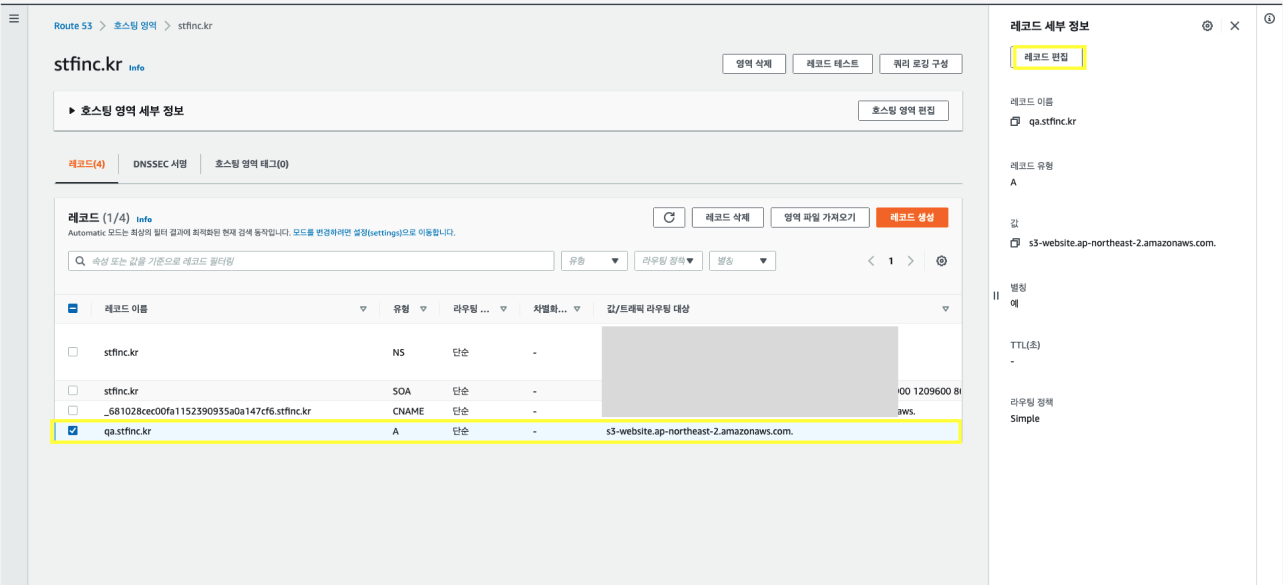
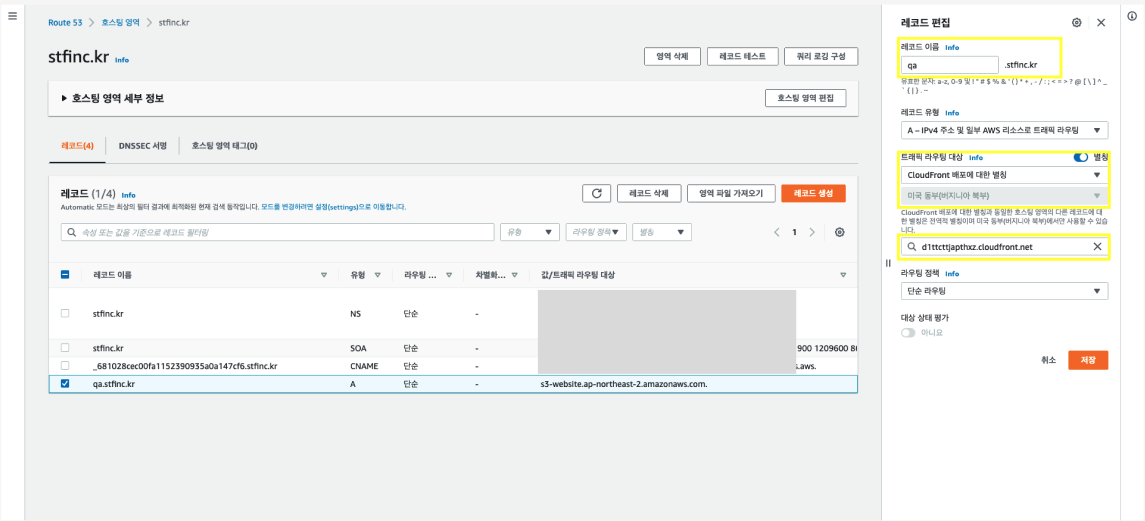
feat: cloudfront 포스트 작성 완료

diff --git a/_sass/_custom/custom.scss b/_sass/_custom/custom.scss
@@ -1,37 +1,71 @@
 // Custom styles.
 
-.col-3 {width: 25%;}
-.col-6 {width: 50%;}
-.col-9 {width: 75%;}
-.col-12 {width: 100%;}
+.col-3 {
+  width: 25%;
+}
+.col-6 {
+  width: 50%;
+}
+.col-9 {
+  width: 75%;
+}
+.col-12 {
+  width: 100%;
+}
 
+.fw-100 {
+  font-weight: 100;
+}
+.fw-200 {
+  font-weight: 200;
+}
+.fw-300 {
+  font-weight: 300;
+}
+.fw-400 {
+  font-weight: 400;
+}
+.fw-500 {
+  font-weight: 500;
+}
+.fw-600 {
+  font-weight: 600;
+}
+.fw-700 {
+  font-weight: 700;
+}
+.fw-800 {
+  font-weight: 800;
+}
+.fw-900 {
+  font-weight: 900;
+}
+.fw-1000 {
+  font-weight: 1000;
+}
 
 .language-text {
+  .highlight {
+    .gutter {
+      display: none;
+    }
 
-	.highlight {
-		.gutter {
-			display: none;
-		}
-
-		.code {
-			pre {
-				code {
-					font-size: 12px;
-		    		line-height: 1;
-		    		color: #000;
-				}
-			}
-		}
-	}
-
+    .code {
+      pre {
+        code {
+          font-size: 12px;
+          line-height: 1;
+          color: #000;
+        }
+      }
+    }
+  }
 }
 
 .not-found-section {
-
-	a {
-		span {
-			font-size: 40px;
-		}
-	}
-
+  a {
+    span {
+      font-size: 40px;
+    }
+  }
 }

diff --git a/_posts/2021-08-20-react-s3-cloudfront-deploy-5-gabia copy.md b/_posts/2021-08-20-react-s3-cloudfront-deploy-5-gabia copy.md
@@ -1,0 +1,79 @@
+---
+layout: post
+title: React 프로젝트 AWS S3, CloudFront에 배포 및 가비아 구매 도메인 연결하기 - 5 (gabia)
+description: "CloudFront 생성하기"
+date: 2021-08-20
+categories:
+  - SPA 배포
+tags: [React, AWS S3, AWS CloudFront, SPA 배포, Gabia, AWS Route53, AWS ACM]
+---
+
+# React 프로젝트 AWS S3, CloudFront에 배포 및 가비아 구매 도메인 연결하기 - 5
+
+```text
+회사 퇴직을 하기 전 배포중인 프로젝트의 인수인계를 위하여 문서작업을 진행하게되었습니다.
+그래서 겸사겸사 블로그 포스팅도 남겨봅니다.
+```
+
+## 참고사항 (모든 스텝 동일 합니다. 스탭별 추가 유의사항은 goal 에 작성하겠습니다)
+- 회사 에서 임시로 qa 라는 배포 환경을 만들면서 진행을 하였고, 현재는 제거 된 구성으로 알고있습니다.
+   - 회사 정보가 나올수 있는 부분은 블라인드 처리를 진행할 것이며 설정과 무난한 정보들입니다. (기존 설정 데이터)
+- 이미지에 보시면 노란색 박스 로 표시된 부분들을 집중해서 보시면 됩니다.
+- 도메인은 가비아에서 구매를 하였기 때문에 도메인 연결은 가비아를 통한 연동과 route53 을 통한 연동 2가지로 구성되어있습니다.
+   - 상황에 맞게 설정하셔서 스탭 진행해주시면 됩니다 :)
+   - 가비아를 통한 도메인 연결은 qa.eneryx.co.kr
+   - route53을 통한 도메인 연결은 qa.stfinc.kr
+   - 이렇게 2가지 url 로 진행됩니다
+- 포스트를 1 부터 차근차근 나눴기에 연결되게 보시는것을 추천합니다.
+- 모든 정보는 2021년 8월을 기준으로 하며 aws 및 가비아 측 업데이트로 인하여 바뀐부분은 정확하지 않을수 있습니다.
+<br>
+
+
+## goal - S3 버킷에 올린 React 프로젝트를 가비아 DNS 연결을 통하여 Cloudfront 를 통해 https 접속하기
+
+- 긴 여정의 마지막 단계 입니다.
+- 전 스텝에서 진행된 가비아 서브 도메인은 S3 로 연결 되고있습니다.
+- 해당 서브도메인을 S3 가 아닌 Cloudfront 로 연결하여 원하는 도메인 으로 https 접속을 진행해보겠습니다.
+<br>
+
+### 1. 가비아 DNS 관리툴 접속
+
+- 기존 S3 도메인 연결 과정과 똑같습니다.
+- 도메인을 구매한 계정으로 로그인하여 연결 하려는 도메인의 DNS 관리툴로 접속합시다.
+
+<img src="{{ site.url }}/assets/image/2021-08-20-react-s3-cloudfront-deploy-5-gabia/image1.png" class="col-12" />
+<img src="{{ site.url }}/assets/image/2021-08-20-react-s3-cloudfront-deploy-5-gabia/image2.png" class="col-12" />
+<img src="{{ site.url }}/assets/image/2021-08-20-react-s3-cloudfront-deploy-5-gabia/image3.png" class="col-12" />
+<br>
+
+### 2. 기존 도메인 S3 연결을 Cloudfront 연결로 수정하기
+
+- 기존 S3 버킷으로 연결 되었던 CNAME 설정을 찾습니다.
+- 수정 버튼을 눌러 기존에 작성 되었던 S3 버킷 웹 호스팅 URL을 Cloudfront ID 로 변경합니다.
+- 꼭 ID 값 뒤에 "."을 찍어주셔야됩니다! (가비아 레코드 저장 필수사항)
+
+<img src="{{ site.url }}/assets/image/2021-08-20-react-s3-cloudfront-deploy-5-gabia/image4.png" class="col-12" />
+<img src="{{ site.url }}/assets/image/2021-08-20-react-s3-cloudfront-deploy-5-gabia/image6.png" class="col-12" />
+<br>
+
+### 3. 설정한 URL로 접속하기
+
+- 설정한 레코드의 URL로 브라우저로 접속해봅시다.
+- Cloudfront 에 설정한 대로 http 로 접속하여 https 로 리다이렉트 되는지도 확인합니다.
+
+<img src="{{ site.url }}/assets/image/2021-08-20-react-s3-cloudfront-deploy-5-gabia/image7.png" class="col-12" />
+<br>
+
+### 4. Finish
+
+- 모든 과정이 끝이 났습니다.
+- 가비아를 통하여 Cloudfront 를 연결하여 브라우저 url 입력시 S3 에서 웹호스팅 한 프로젝트에 https 접속을 진행할수있게 되었습니다.
+- 실제 프로젝트 운영중에는 이 과정 말고도 캐시 정책, 에러 정책 등 여러가지 정책이 추가되어야합니다.
+- 프로젝트에 맞게 추가 설정 및 배포 단계에 있어서는 다른 포스트에서 진행해보도록 하겠습니다~
+
+## 모든 스텝
+
+## [ACM 생성]({{ site.url }}/articles/2021-08/react-s3-cloudfront-deploy-3)
+<h2>테스트트트트</h2>
+## [ACM 생성]({{ site.url }}/articles/2021-08/react-s3-cloudfront-deploy-3)
+## [ACM 생성]({{ site.url }}/articles/2021-08/react-s3-cloudfront-deploy-3)

diff --git a/_posts/2021-08-20-react-s3-cloudfront-deploy-5-route53.md b/_posts/2021-08-20-react-s3-cloudfront-deploy-5-route53.md
@@ -1,0 +1,84 @@
+---
+layout: post
+title: React 프로젝트 AWS S3, CloudFront에 배포 및 가비아 구매 도메인 연결하기 - 5 (Route53)
+description: ""
+date: 2021-08-20
+categories:
+  - SPA 배포
+tags: [React, AWS S3, AWS CloudFront, SPA 배포, Gabia, AWS Route53, AWS ACM]
+---
+
+# React 프로젝트 AWS S3, CloudFront에 배포 및 가비아 구매 도메인 연결하기 - 5
+
+```text
+회사 퇴직을 하기 전 배포중인 프로젝트의 인수인계를 위하여 문서작업을 진행하게되었습니다.
+그래서 겸사겸사 블로그 포스팅도 남겨봅니다.
+```
+<br>
+
+## 참고사항 (모든 스텝 동일 합니다. 스탭별 추가 유의사항은 goal 에 작성하겠습니다)
+- 회사 에서 임시로 qa 라는 배포 환경을 만들면서 진행을 하였고, 현재는 제거 된 구성으로 알고있습니다.
+   - 회사 정보가 나올수 있는 부분은 블라인드 처리를 진행할 것이며 설정과 무난한 정보들입니다. (기존 설정 데이터)
+- 이미지에 보시면 노란색 박스 로 표시된 부분들을 집중해서 보시면 됩니다.
+- 도메인은 가비아에서 구매를 하였기 때문에 도메인 연결은 가비아를 통한 연동과 route53 을 통한 연동 2가지로 구성되어있습니다.
+   - 상황에 맞게 설정하셔서 스탭 진행해주시면 됩니다 :)
+   - 가비아를 통한 도메인 연결은 qa.eneryx.co.kr
+   - route53을 통한 도메인 연결은 qa.stfinc.kr
+   - 이렇게 2가지 url 로 진행됩니다
+- 포스트를 1 부터 차근차근 나눴기에 연결되게 보시는것을 추천합니다.
+- 모든 정보는 2021년 8월을 기준으로 하며 aws 및 가비아 측 업데이트로 인하여 바뀐부분은 정확하지 않을수 있습니다.
+<br>
+
+
+## goal - S3 버킷에 올린 React 프로젝트를 Route53 연결을 통하여 Cloudfront 를 통해 https 접속하기
+
+- 긴 여정의 마지막 단계 입니다.
+- 전 스텝에서 진행된 Route53 을 통해 S3 프로젝트로 연결 되고있습니다.
+- 해당 서브도메인을 S3 가 아닌 Cloudfront 로 연결하여 원하는 도메인 으로 https 접속을 진행해보겠습니다.
+<br>
+
+
+### 1. AWS Route53 접속
+
+- 기존 S3 도메인 연결 과정과 똑같습니다.
+- 도메인을 구매한 계정으로 로그인하여 연결 하려는 도메인의 DNS 관리툴로 접속합시다.
+
+<img src="{{ site.url }}/assets/image/2021-08-20-react-s3-cloudfront-deploy-5-route53/image1.png" class="col-12" />
+<br>
+
+
+### 2. 기존 도메인 S3 연결을 Cloudfront 연결로 수정하기
+
+- 기존 S3 버킷으로 연결 되었던 레코드 설정을 찾습니다.
+- 레코드 편집을 클릭하여 편집단계를 접속합니다.
+- 기존 트래픽 라우팅 대상을 "CloudFront 배포에 대한 별칭"으로 설정하면 밑에 자동으로 Selectbox Option이 변경됩니다.
+- Cloudfront 주소로 설정뒤 저장을 하여 마무리 합니다.
+
+<img src="{{ site.url }}/assets/image/2021-08-20-react-s3-cloudfront-deploy-5-route53/image2.png" class="col-12" />
+<img src="{{ site.url }}/assets/image/2021-08-20-react-s3-cloudfront-deploy-5-route53/image3.png" class="col-12" />
+<br>
+
+
+### 3. 설정한 URL로 접속하기
+
+- 설정한 레코드의 URL로 브라우저로 접속해봅시다.
+- Cloudfront 에 설정한 대로 http 로 접속하여 https 로 리다이렉트 되는지도 확인합니다.
+
+<img src="{{ site.url }}/assets/image/2021-08-20-react-s3-cloudfront-deploy-5-route53/image4.png" class="col-12" />
+<br>
+
+
+### 4. Finish
+
+- 모든 과정이 끝이 났습니다.
+- 가비아를 통하여 Cloudfront 를 연결하여 브라우저 url 입력시 S3 에서 웹호스팅 한 프로젝트에 https 접속을 진행할수있게 되었습니다.
+- 실제 프로젝트 운영중에는 이 과정 말고도 캐시 정책, 에러 정책 등 여러가지 정책이 추가되어야합니다.
+- 프로젝트에 맞게 추가 설정 및 배포 단계에 있어서는 다른 포스트에서 진행해보도록 하겠습니다~
+
+
+## 모든 스텝
+
+## [ACM 생성]({{ site.url }}/articles/2021-08/react-s3-cloudfront-deploy-3)
+<h2>테스트트트트</h2>
+## [ACM 생성]({{ site.url }}/articles/2021-08/react-s3-cloudfront-deploy-3)
+## [ACM 생성]({{ site.url }}/articles/2021-08/react-s3-cloudfront-deploy-3)

diff --git a/_posts/2021-08-20-react-s3-cloudfront-deploy-2-gabia.md b/_posts/2021-08-20-react-s3-cloudfront-deploy-2-gabia.md
@@ -63,6 +63,7 @@ tags: [React, AWS S3, AWS CloudFront, CD, Gabia, AWS Route53, AWS ACM]
 - 레코드 추가하기를 클릭해 원하는 url 로 설정하여 프로젝트에 접속할수있게 해보겠습니다.
 - 레코드 타입은 CNAME 으로 설정합니다.
 - 도메인은 버킷에서 잡았던 서브도메인으로 작성하고 버킷 웹사이트 엔드포인트를 작성한뒤 확인 및 저장을 진행해줍니다.
+- 꼭 엔드포인트 뒤에 "." 을 찍어주셔야됩니다! (가비아 레코드 저장 필수사항)
 
 <img src="{{ site.url }}/assets/image/2021-08-20-react-s3-cloudfront-deploy-2-gabia/image5.png" class="col-12" />
 
@@ -80,6 +81,9 @@ tags: [React, AWS S3, AWS CloudFront, CD, Gabia, AWS Route53, AWS ACM]
 
 <img src="{{ site.url }}/assets/image/2021-08-20-react-s3-cloudfront-deploy-2-gabia/image7.png" class="col-12" />
 
+### 가비아 고객센터
+
+- [해당 포스트 과정 Document](https://customer.gabia.com/manual/dns/3041/3040)
 
 ## 다음 스탭
 

diff --git a/_posts/2021-08-20-react-s3-cloudfront-deploy-4.md b/_posts/2021-08-20-react-s3-cloudfront-deploy-4.md
@@ -121,16 +121,14 @@ tags: [React, AWS S3, AWS CloudFront, CD, Gabia, AWS Route53, AWS ACM]
 
 ```json
 {
-  {
-    "Sid": "2",
-    "Effect": "Allow",
-    "Principal": {
+  "Sid": "1",
+  "Effect": "Allow",
+  "Principal": {
       "AWS": "arn:aws:iam::cloudfront:user/CloudFront Origin Access Identity 클라우드프론트ID"
-    },
-    "Action": "s3:GetObject",
-    "Resource": "arn:aws:s3:::도메인이름/*"
-  }
-}
+  },
+  "Action": "s3:GetObject",
+  "Resource": "arn:aws:s3:::도메인이름/*"
+},
 ```
 
 <img src="{{ site.url }}/assets/image/2021-08-20-react-s3-cloudfront-deploy-4/image12.png" class="col-12" />
